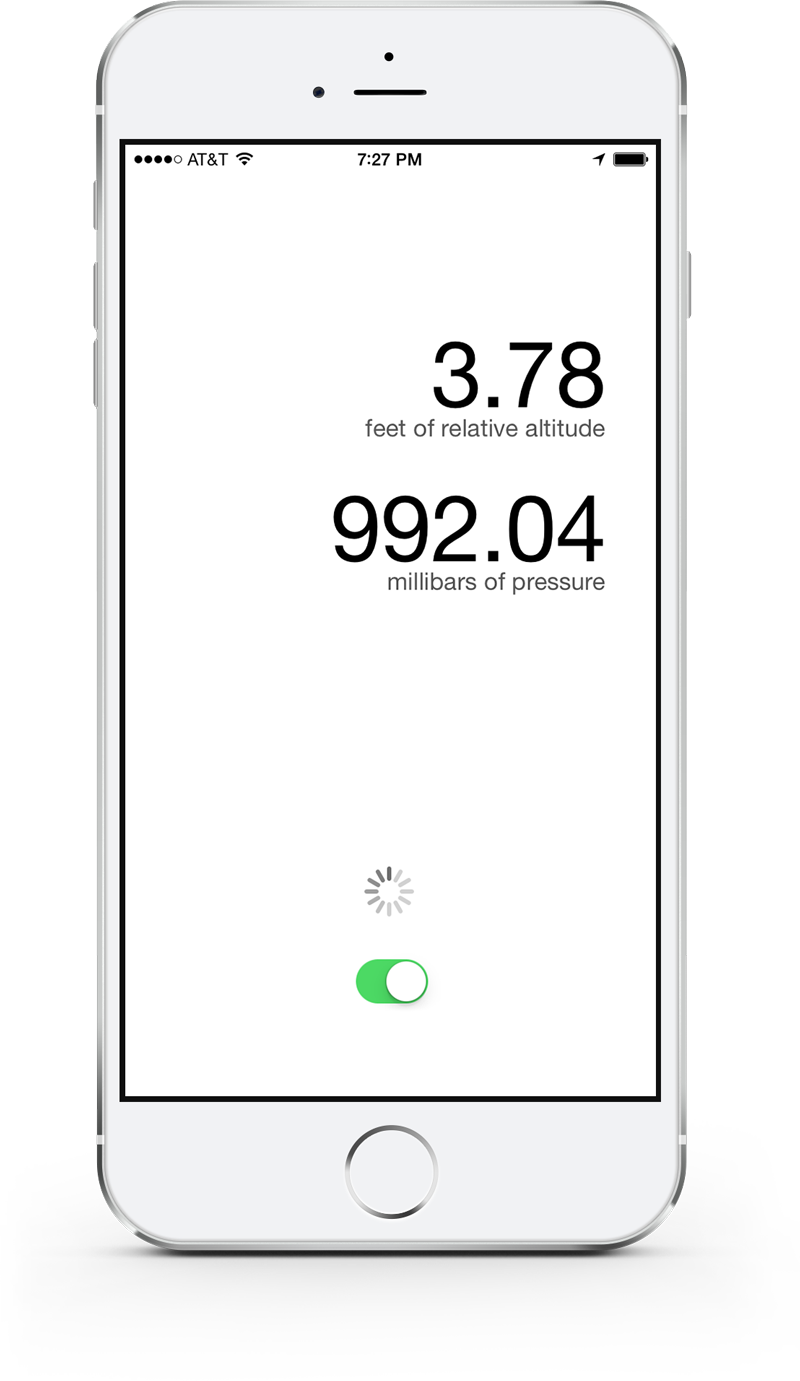
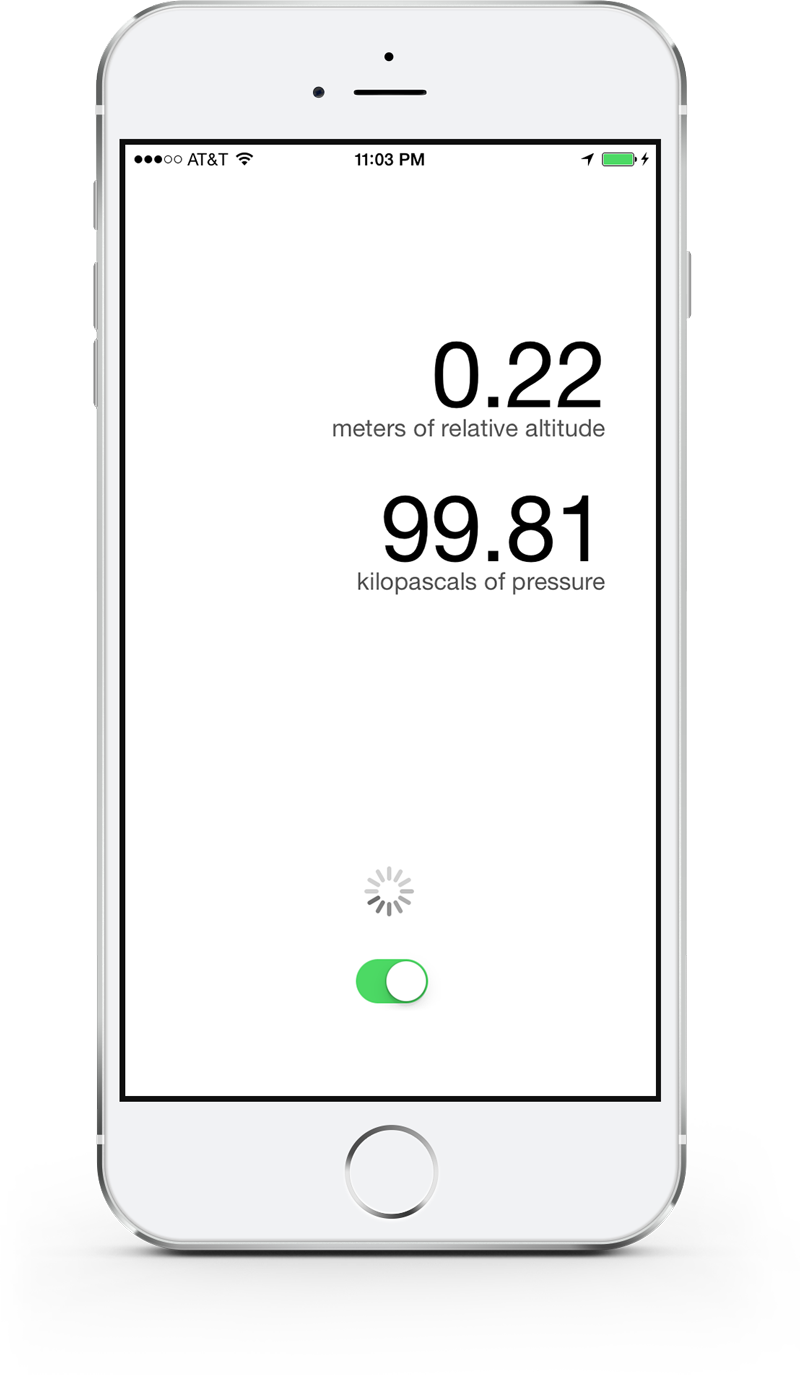
Fixed compilation errors, removed unit conversions

diff --git a/CMAltimeterDemo/ViewController.swift b/CMAltimeterDemo/ViewController.swift
@@ -37,7 +37,7 @@ class ViewController: UIViewController {
     @IBOutlet weak var activityIndicator: UIActivityIndicatorView! // Activity indicator
     @IBOutlet weak var altimeterSwitch: UISwitch! // Altimeter start / stop switch
     
-    let altimeter = CMAltimeter() // Initialize CMAltimeter
+    lazy var altimeter = CMAltimeter() // Lazily load CMAltimeter
     
     override func viewDidLoad() {
         super.viewDidLoad()
@@ -57,7 +57,7 @@ class ViewController: UIViewController {
             self.activityIndicator.startAnimating()
             
             // Start altimeter updates, add it to the main queue
-            self.altimeter.startRelativeAltitudeUpdatesToQueue(NSOperationQueue.mainQueue()) { (altitudeData:CMAltitudeData!, error:NSError!) in
+            self.altimeter.startRelativeAltitudeUpdatesToQueue(NSOperationQueue.mainQueue(), { (altitudeData:CMAltitudeData?, error:NSError?) in
                 
                 if (error != nil) {
                     
@@ -66,21 +66,21 @@ class ViewController: UIViewController {
                     self.altimeterSwitch.on = false
                     self.stopAltimeter()
                     
-                    let alertView = UIAlertView(title: "Error", message: error.localizedDescription, delegate: nil, cancelButtonTitle: "OK")
+                    let alertView = UIAlertView(title: "Error", message: error!.localizedDescription, delegate: nil, cancelButtonTitle: "OK")
                     alertView.show()
                     
                 } else {
                     
-                    let altitudeFeet = altitudeData.relativeAltitude * 3937.0 / 1200.0 // Convert to feet
-                    let pressureMillibars = altitudeData.pressure * 10.0 // Convert pressue to millibars
+                    let altitude = altitudeData!.relativeAltitude.floatValue    // Relative altitude in meters
+                    let pressure = altitudeData!.pressure.floatValue            // Pressure in kilopascals
                     
                     // Update labels, truncate float to two decimal points
-                    self.altLabel.text = NSString(format: "%.02f", altitudeFeet)
-                    self.pressureLabel.text = NSString(format: "%.02f", pressureMillibars)
+                    self.altLabel.text = NSString(format: "%.02f", altitude)
+                    self.pressureLabel.text = NSString(format: "%.02f", pressure)
                     
                 }
                 
-            }
+            })
             
         } else {
             
